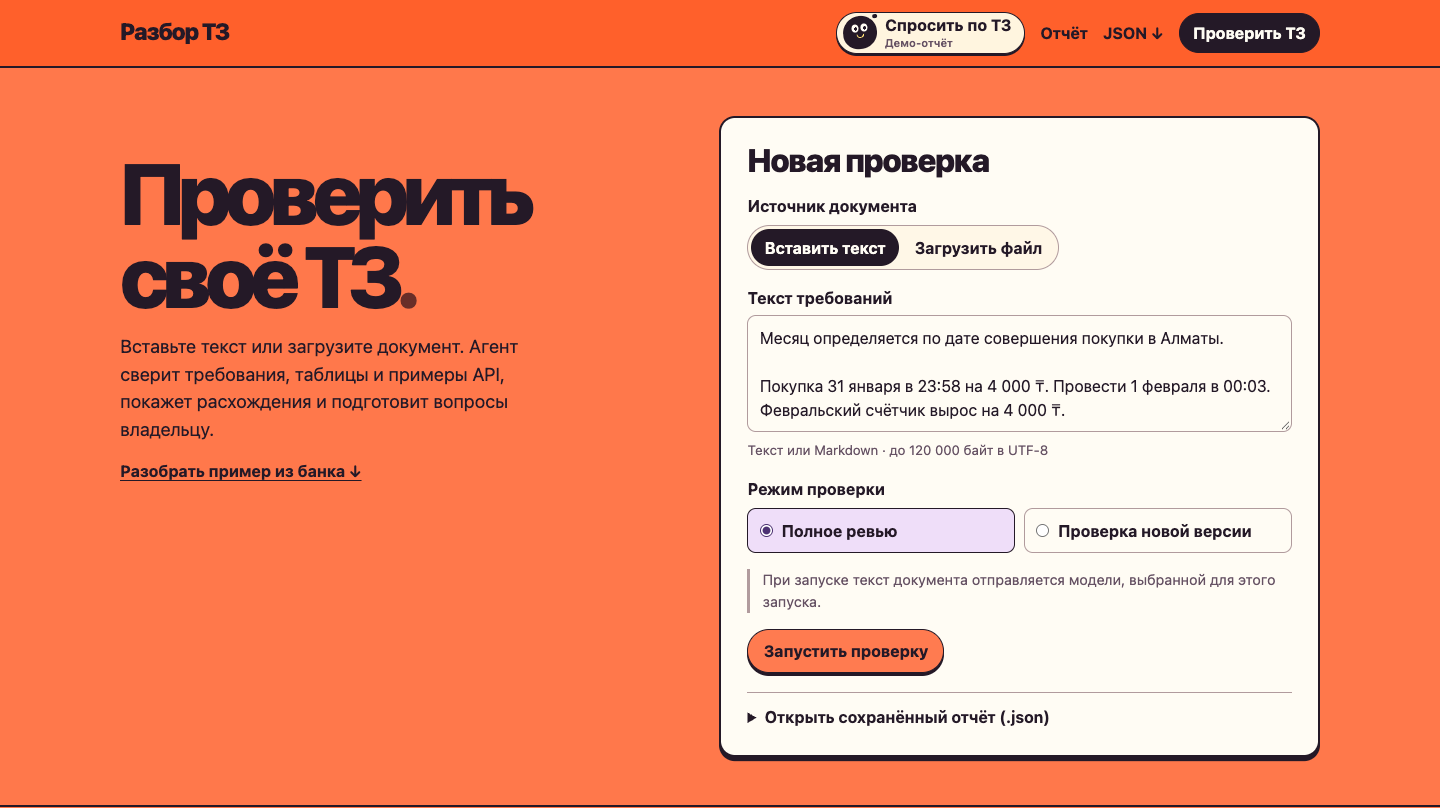
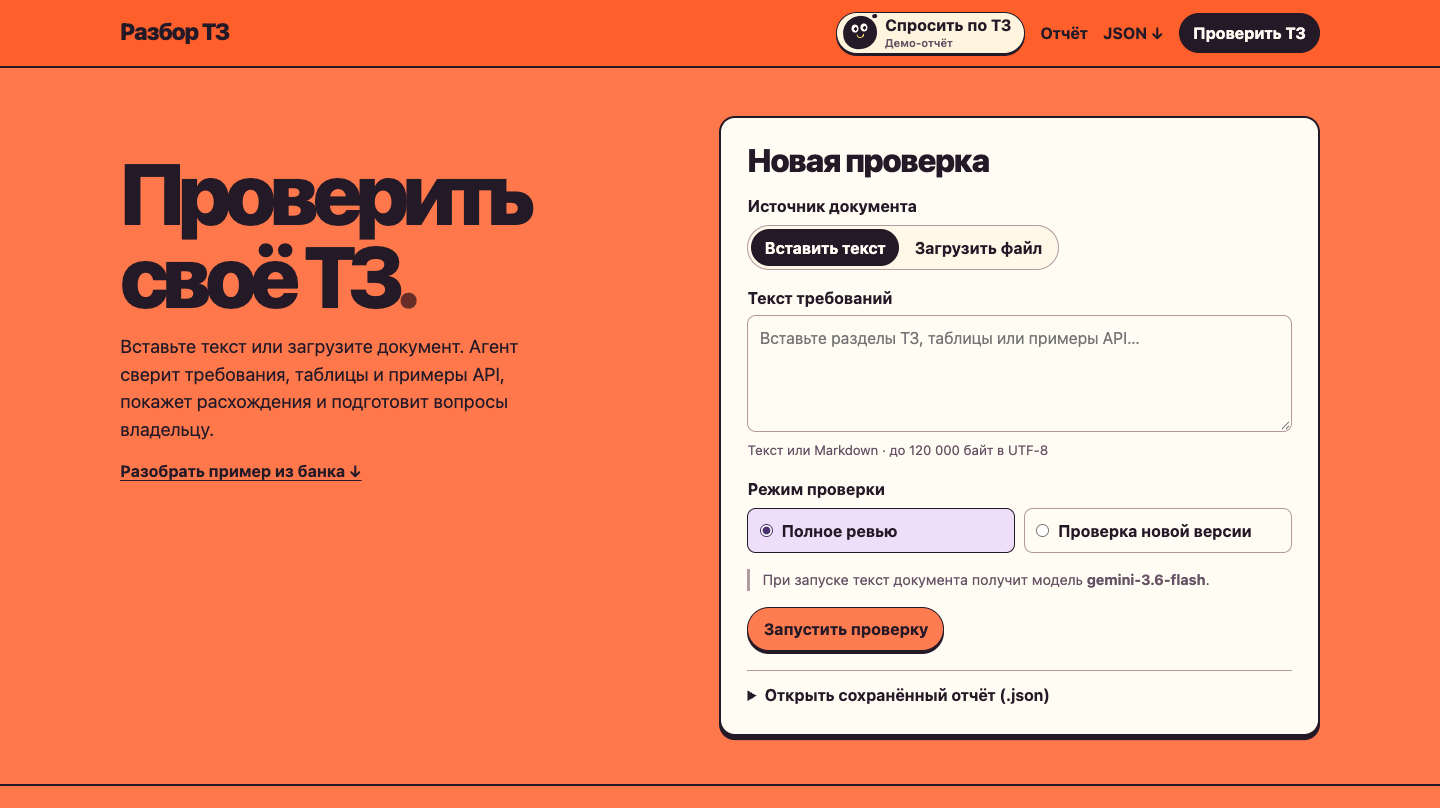
Show analysts the active model before they send a document

diff --git a/reviewer/workbench.html b/reviewer/workbench.html
@@ -247,7 +247,7 @@ a{color:var(--accent);text-underline-offset:.18em}
           <a id="reuse-report-link">Открыть сохранённый отчёт</a>
           <p id="reuse-report-meta"></p>
         </div>
-        <p class="notice">При запуске текст документа отправляется модели, выбранной для этого запуска.</p>
+        <p class="notice">При запуске текст документа получит модель <strong><!--review-model-->этого сервера</strong>.</p>
         <p id="upload-error" class="error" role="alert" hidden></p>
         <button id="submit" type="submit">Запустить проверку</button>
       </form>

diff --git a/reviewer/serve.py b/reviewer/serve.py
@@ -3,6 +3,7 @@
 import argparse
 from dataclasses import dataclass, field
 from hashlib import sha256
+from html import escape
 from http import HTTPStatus
 from http.server import BaseHTTPRequestHandler, ThreadingHTTPServer
 import json
@@ -753,7 +754,9 @@ class WorkbenchHandler(BaseHTTPRequestHandler):
                 self.reply(HTTPStatus.OK, artifact.read_bytes(), STATIC_FILES[route.path])
                 return
             if route.path == "/":
-                self.reply(HTTPStatus.OK, (app.root / "reviewer" / PAGE.name).read_bytes(),
+                page = (app.root / "reviewer" / PAGE.name).read_text(encoding="utf-8")
+                model = app.model or codex_provider.default_model()
+                self.reply(HTTPStatus.OK, page.replace("<!--review-model-->этого сервера", escape(model)).encode(),
                            REPORT_FILES["review.html"])
                 return
             status = re.fullmatch(rf"/api/status/({JOB_ID})", route.path)

diff --git a/tests/test_serve.py b/tests/test_serve.py
@@ -83,6 +83,14 @@ class WorkbenchTest(unittest.TestCase):
                 self.fail(f"Run did not finish: {result}")
             time.sleep(0.01)
 
+    def test_home_names_the_selected_model_before_submission(self):
+        (self.root / "reviewer" / "workbench.html").write_text((ROOT / "reviewer" / "workbench.html").read_text())
+        self.app.model = "Model A & B"
+        self.assertIn("Model A &amp; B", self.request("GET", "/")[1].decode())
+        self.app.model = None
+        with patch.dict("os.environ", {"REVIEW_PROVIDER": "gemini", "REVIEW_MODEL": ""}):
+            self.assertIn("gemini-3.6-flash", self.request("GET", "/")[1].decode())
+
     def test_demo_fallback_and_immutable_modes(self):
         benchmark = self.demo.with_name("bcc-benchmark")
         benchmark.mkdir()
